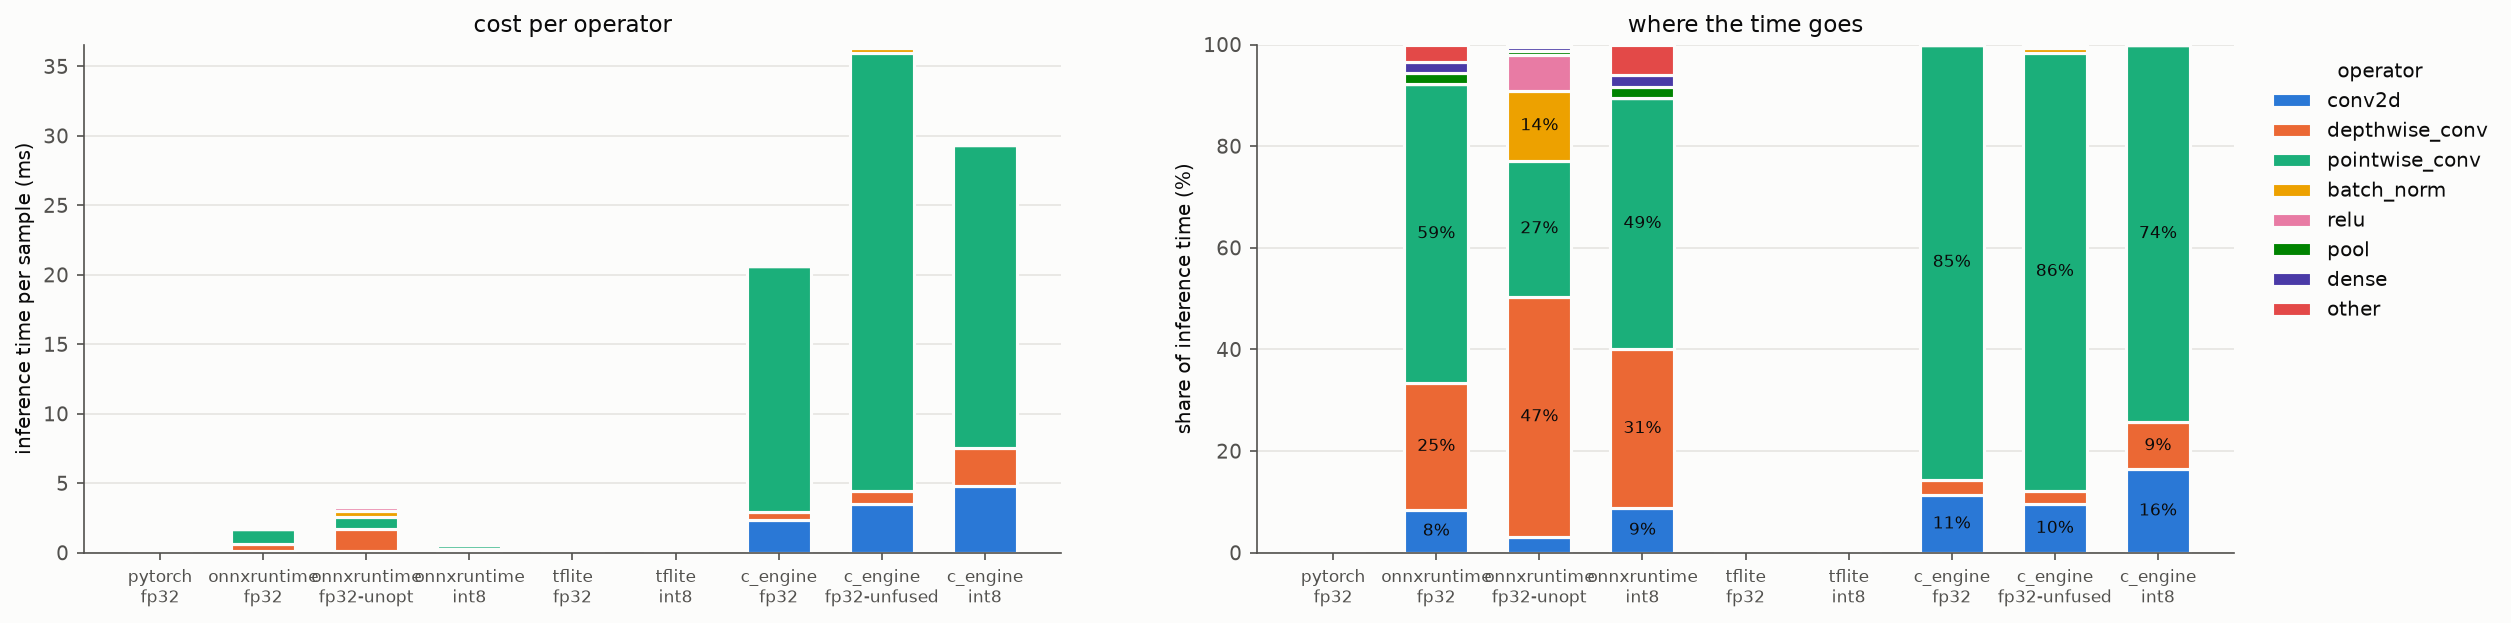
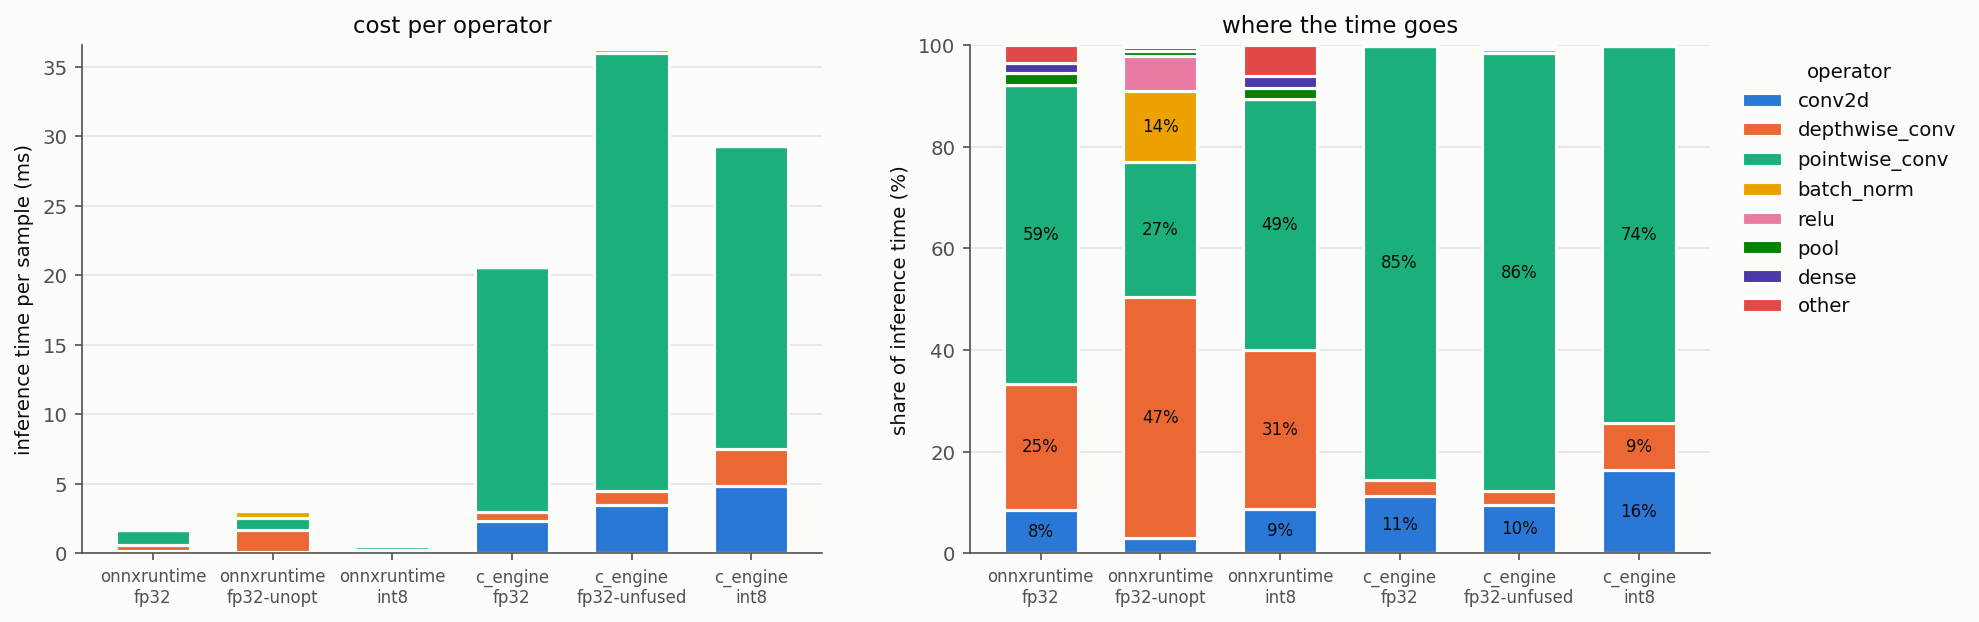
keep runtimes without a breakdown out of the chart

diff --git a/analysis/compare_runtimes.py b/analysis/compare_runtimes.py
@@ -46,6 +46,8 @@ def summary_table(records):
 def operator_table(records):
     rows = []
     for r in records:
+        if not r["ops"]:
+            continue
         share = op_share(r)
         total = sum(share.values()) or 1.0
         rows.append([f"{r['runtime']} {r['precision']}"] +
@@ -82,6 +84,8 @@ def chart(records):
     linear axis would flatten the fast ones into invisible slivers. the share
     panel keeps their breakdown readable next to the magnitude panel.
     """
+    # a runtime with no per-op profiler would draw an empty bar that reads as zero
+    records = [r for r in records if r["ops"]]
     style.setup()
     fig, (left, right) = style.plt.subplots(1, 2, figsize=(1.5 * len(records) + 5.0, 4.4))
     labels = [f"{r['runtime']}\n{r['precision']}" for r in records]
@@ -124,6 +128,9 @@ def main():
     text = ("# runtime comparison\n\nds-cnn keyword spotter, speech commands v2, batch 1.\n\n"
             + summary_table(records)
             + "\n## time per operator (ms)\n\n" + operator_table(records))
+    silent = sorted({r["runtime"] for r in records if not r["ops"]})
+    if silent:
+        text += f"\nno per-operator breakdown for {', '.join(silent)} on this machine.\n"
     embedded = embedded_table(profile.RESULTS / "embedded.json")
     if embedded:
         text += "\n## cortex-m4 target\n\n" + embedded

diff --git a/results/tables/runtimes.md b/results/tables/runtimes.md
@@ -18,15 +18,14 @@ ds-cnn keyword spotter, speech commands v2, batch 1.
 
 | runtime                | conv2d        | depthwise_conv | pointwise_conv | batch_norm    | relu          | pool          | dense         | other         |
 |------------------------|---------------|----------------|----------------|---------------|---------------|---------------|---------------|---------------|
-| pytorch fp32           | -             | -              | -              | -             | -             | -             | -             | -             |
 | onnxruntime fp32       | 0.155 ( 8.5%) | 0.457 (24.9%)  | 1.080 (58.8%)  | -             | -             | 0.043 ( 2.3%) | 0.037 ( 2.0%) | 0.064 ( 3.5%) |
 | onnxruntime fp32-unopt | 0.104 ( 3.1%) | 1.572 (47.2%)  | 0.890 (26.8%)  | 0.459 (13.8%) | 0.232 ( 7.0%) | 0.030 ( 0.9%) | 0.026 ( 0.8%) | 0.014 ( 0.4%) |
 | onnxruntime int8       | 0.054 ( 8.8%) | 0.191 (31.2%)  | 0.302 (49.5%)  | -             | -             | 0.013 ( 2.1%) | 0.015 ( 2.4%) | 0.037 ( 6.1%) |
-| tflite fp32            | -             | -              | -              | -             | -             | -             | -             | -             |
-| tflite int8            | -             | -              | -              | -             | -             | -             | -             | -             |
 | c_engine fp32          | 2.329 (11.3%) | 0.636 ( 3.1%)  | 17.647 (85.5%) | -             | -             | 0.019 ( 0.1%) | 0.009 ( 0.0%) | -             |
 | c_engine fp32-unfused  | 3.492 ( 9.5%) | 0.978 ( 2.7%)  | 31.523 (86.2%) | 0.317 ( 0.9%) | 0.225 ( 0.6%) | 0.023 ( 0.1%) | 0.014 ( 0.0%) | -             |
 | c_engine int8          | 4.815 (16.4%) | 2.729 ( 9.3%)  | 21.801 (74.2%) | -             | -             | 0.028 ( 0.1%) | 0.010 ( 0.0%) | -             |
+
+no per-operator breakdown for pytorch, tflite on this machine.
 
 ## cortex-m4 target
 
